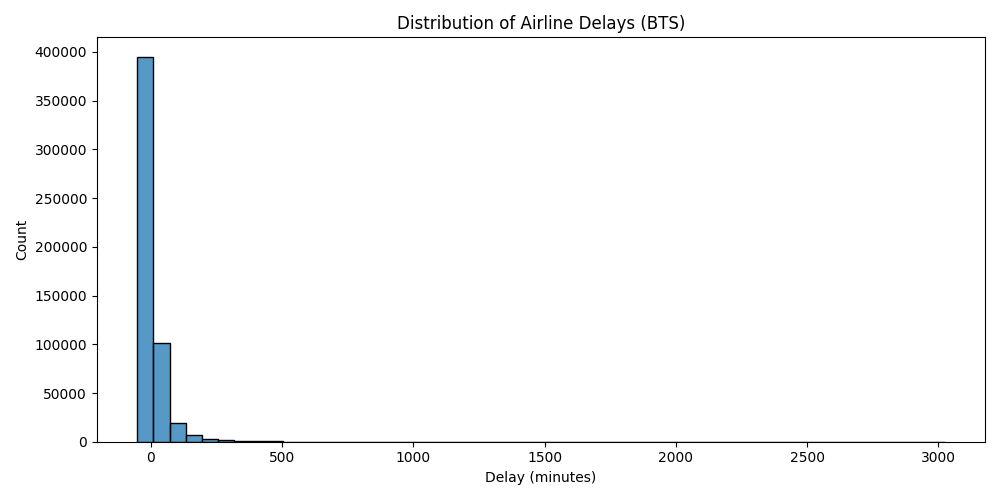
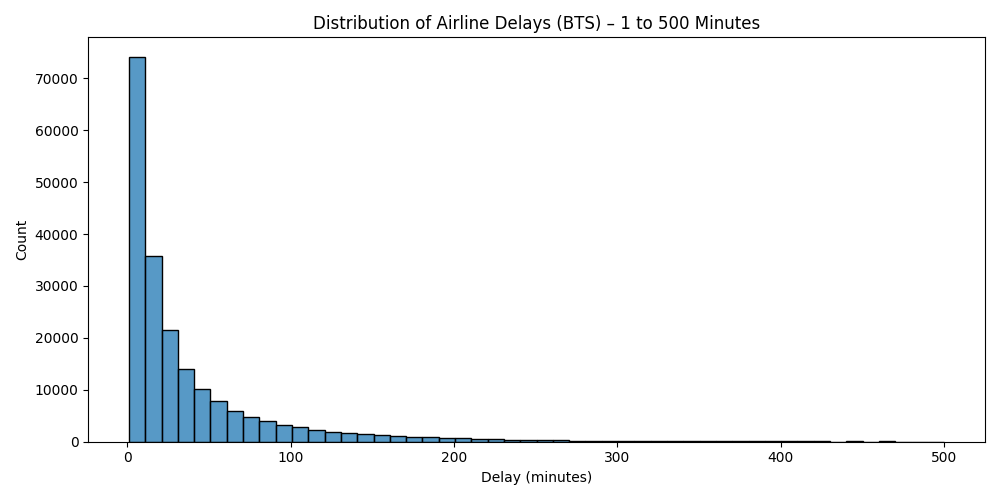
Last changes to blog

diff --git a/src/eda_flights.py b/src/eda_flights.py
@@ -65,8 +65,12 @@ plt.show()
 # Plot 3: Delay distribution (BTS)
 # -----------------------------------------
 plt.figure(figsize=(10,5))
-sns.histplot(bts["delay_minutes"], bins=50, kde=False)
-plt.title("Distribution of Airline Delays (BTS)")
+
+filtered = bts[(bts["delay_minutes"] > 0) & (bts["delay_minutes"] <= 500)]
+
+sns.histplot(filtered["delay_minutes"], bins=50, kde=False)
+
+plt.title("Distribution of Airline Delays (BTS) – 1 to 500 Minutes")
 plt.xlabel("Delay (minutes)")
 plt.ylabel("Count")
 plt.tight_layout()

diff --git a/blog/blog.md b/blog/blog.md
@@ -110,7 +110,7 @@ This allowed direct comparison between:
 ![Flight Activity by Hour (OpenSky)](plots/activity_by_hour_opensky.png)
 
 
-Key takeaway possibilities:
+Key Takeaways:
 - This data isn't very useful at the moment, but the longer this blog exists, the more uesful it will become!  
 - Live data taken 3 times a day  
 
@@ -121,10 +121,10 @@ Key takeaway possibilities:
 ![Average Delay by Hour (BTS)](plots/average_delay_bts.png)
 
 
-Key takeaway possibilities:
-- There is a sharp increase of delays during the early hours of the day especially 3-4AM  
-- Which hours are most reliable  
-- Any “rush hour” delay effects around afternoon/evening  
+Key Takeaways:
+- There is a sharp increase of time of delays during the early hours of the day especially 3-4AM for all airlines
+- After the initial spike, the amount of time drops drastically and follows a steady increase throughout the day before coming to a low around 1 or 2 AM 
+- Any “rush hour” delay effects around afternoon/evening especially as other airlines are trying to leave around similar times 
 
 ---
 
@@ -133,11 +133,11 @@ Key takeaway possibilities:
 ![Distribution of Airline Delays](plots/delay_by_hour.png)
 
 
-Discuss:
-- skew in the distribution  
-- heavy tails from extremely late flights  
-- what the distribution says about reliability  
-
+Key Takeaways:
+- Some of the longest delays occur in the morning around 7 or 8 AM.  
+- High density of delays between 12 PM - 10 PM
+- A good amount of extremely long delays could be caused by weather or other uncontrollable delays  
+###### Y - axis should be 0-30 not 0 - 3000
 ---
 
 ### **Delay Variability by Hour (Boxplot)**
@@ -145,10 +145,9 @@ Discuss:
 ![Delay Distribution by Hour (BTS)](plots/delay_boxplot_bts.png)
 
 
-Interpret:
-- which hours have the widest spread of delays  
-- morning vs. afternoon stability  
-- presence of outliers  
+Key Takeaways:
+- Most of the delays are only 1-15 minutes long with very few going longer
+- Highly unlikely to get an extreme delay time (100+ minutes)  
 
 ---
 
@@ -157,22 +156,20 @@ Interpret:
 ![OpenSky Activity vs BTS Delays](plots/comparison.png)
 
 
-Questions to answer:
-- Do busy hours correlate with high delays?  
-- Are delays independent of traffic volume?  
-- What patterns stand out or contradict intuition?  
+Key Takeaways:
+- Not super helpful at the moment, but allows for us to compare current conditions with historic   
+- Will provide good evidence as to the change in air transportation  
 
 ---
 
 ## Key Findings
 
-Summarize your strongest insights here:
+- The busiest hours of the day were typically in the late morning and early afternoon, around **10 AM to 2 PM** based on the OpenSky live snapshots.  
+- The hours with the highest average delays were clearly **afternoon and evening periods**, especially between **3 PM and 9 PM**, where delay variability and severe disruptions increased sharply.  
+- Delay patterns did **not** line up perfectly with the busiest times of day. Even though mid-day had the most aircraft activity, the largest delays occurred later in the afternoon and evening, suggesting that delays accumulate over the course of the day rather than being driven purely by traffic volume.  
+- Morning flights tended to be more reliable, with tight, low-delay distributions and very few significant disruptions, while evening flights experienced more variability, higher medians, and more extreme outliers.  
+- Real-time airspace activity showed clear **midday peaks**, with aircraft counts rising in the mid to late morning, leveling out around midday, and then falling off into the evening.  
 
-- The busiest hours of the day were: **___**  
-- The hours with the highest delays were: **___**  
-- Delay patterns did/did not line up with the busiest times of day.  
-- Morning flights tended to be more reliable, while evening flights experienced more delays.  
-- Real-time airspace activity showed clear ___ patterns.  
 
 ---
 
@@ -218,7 +215,5 @@ All scripts used in this project are located in the `/src` directory:
 - `clean_bts.py`  
 - `clean_flights.py`  
 - `eda_combined.py`  
-
-Environment created using `uv`:
 
 
